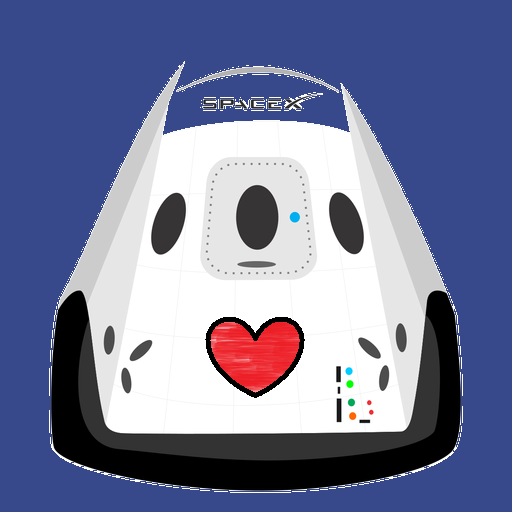
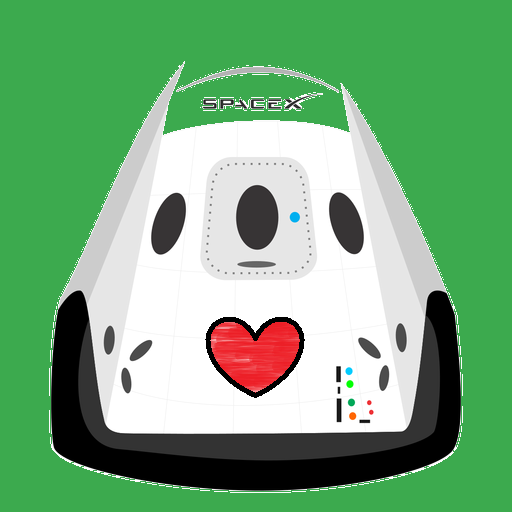
Intentando agregar un emoji 2

diff --git a/css/estilos.css b/css/estilos.css
@@ -9,7 +9,7 @@ body {
 }
 
 #cabecera {
-    background: #37488b;
+    background: #3caa4e;
     color: white;
     font-weight: bold;
     box-shadow: 0px 2px 20px 0px rgba(0, 0, 0, 0.5);
@@ -45,7 +45,7 @@ body {
 }
 
 #footer {
-    background: #37488b;
+    background: #3caa4e;
     color: white;
     text-align: center;
     padding: 0.5em;
